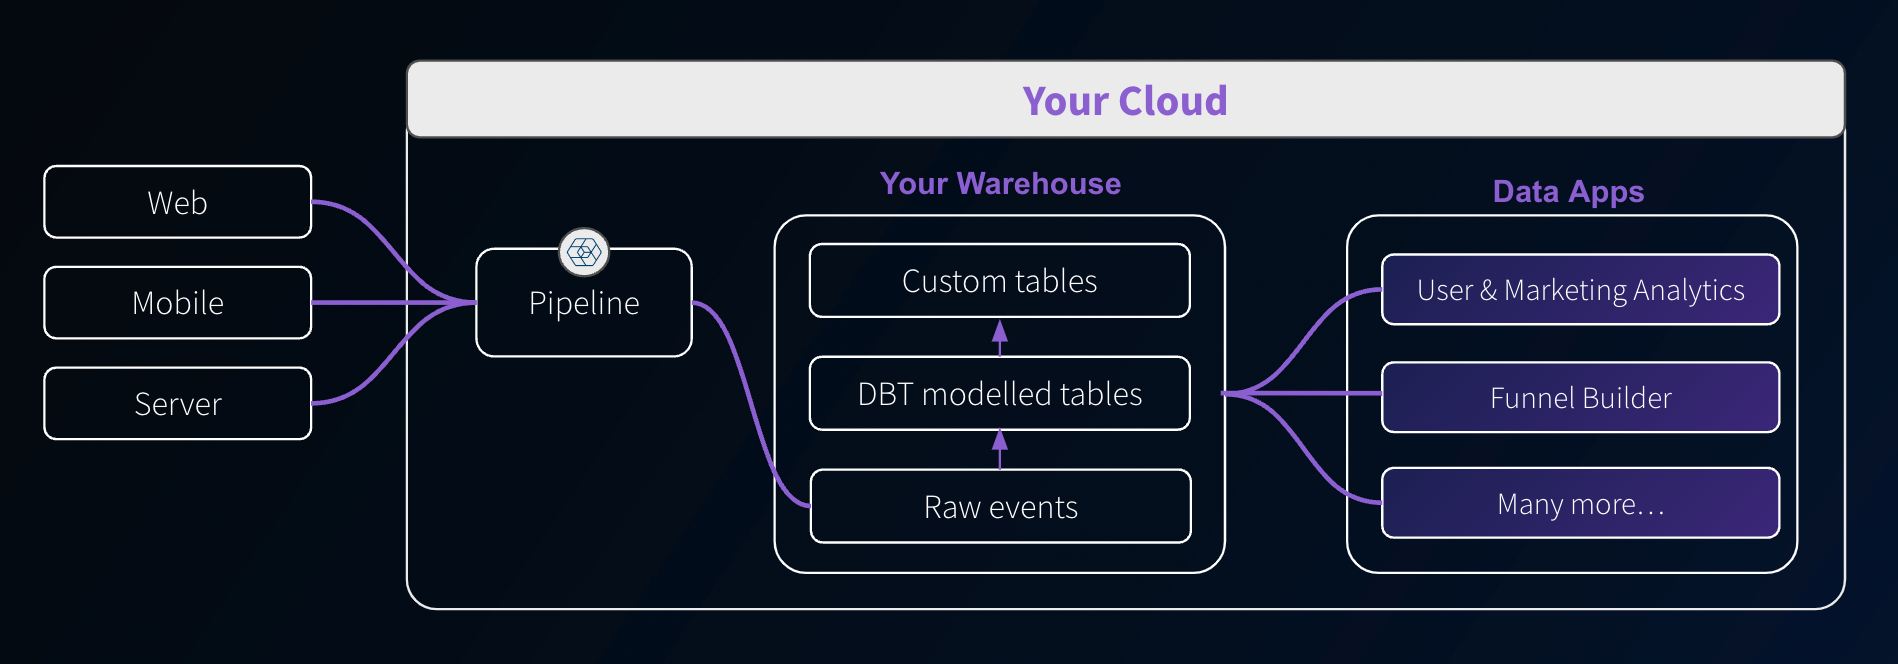
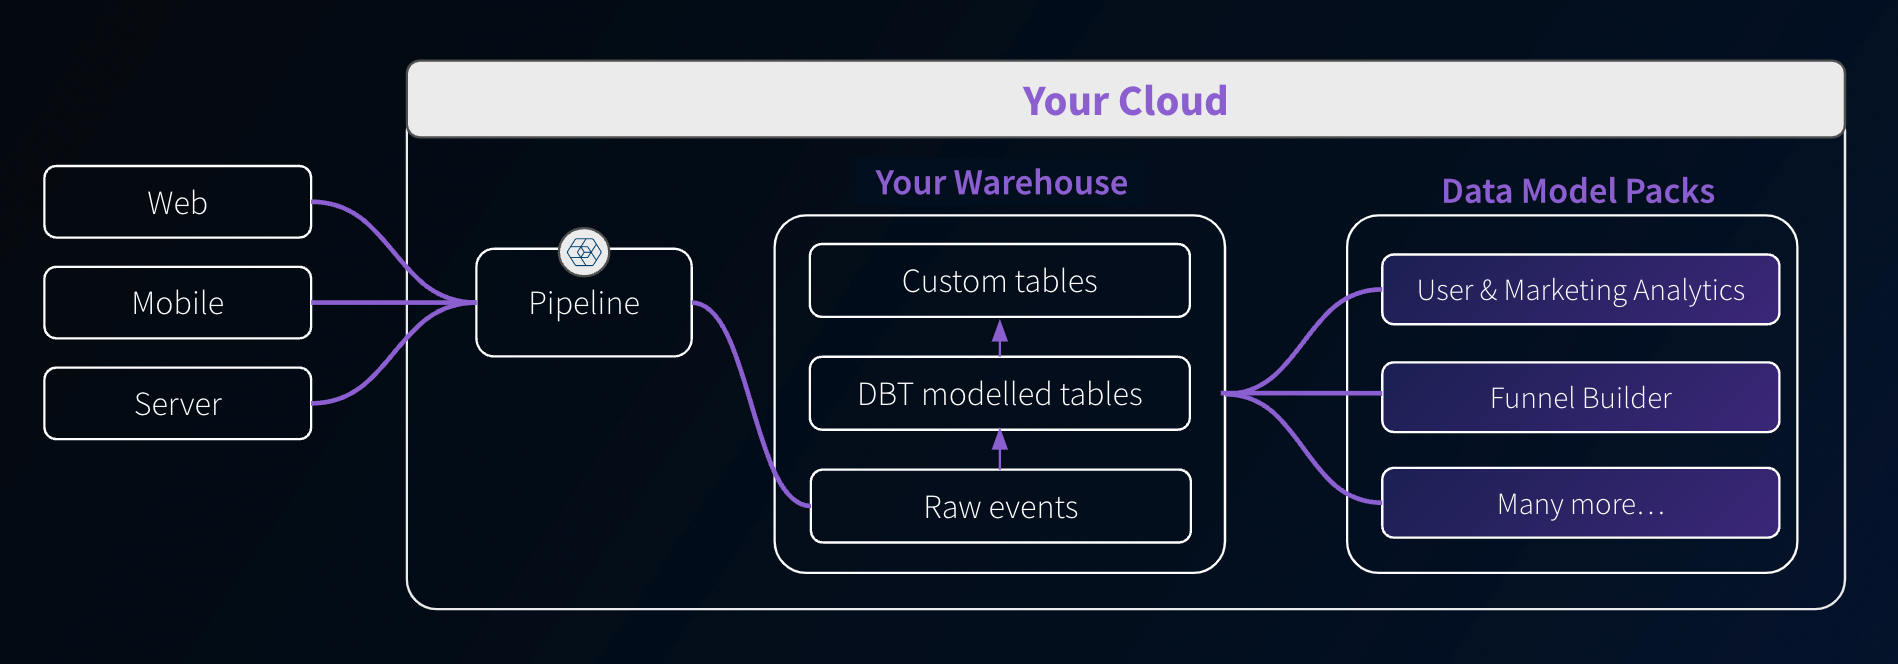
Update image

Changed region(s): [[0.746, 0.2711, 0.9015, 0.3313], [0.4663, 0.241, 0.5906, 0.3012]]

diff --git a/docs/data-apps/index.md b/docs/data-apps/index.md
@@ -16,8 +16,6 @@ Snowplow Data Model Packs are self-service analytics tools that help you extract
 
 They are deployed in your cloud and aim to reduce the technical barrier, making data analysis more accessible beyond just SQL users. Each Data Model Pack contains a set of dashboard visualizations based on a Snowplow data model.
 
-TODO update image
-
 ![Pipeline showing data flowing from tracked events into Data Model Packs](./images/data-apps-pipeline.png)
 
 ## Available Data Model Packs
